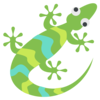
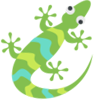
lizard tongue finished

Changed region(s): [[0.0, 0.0, 0.99, 0.99], [0.78, 0.54, 0.93, 0.84]]

diff --git a/src/main/java/com/zeroboy/glutlizard/Board.java b/src/main/java/com/zeroboy/glutlizard/Board.java
@@ -55,6 +55,10 @@ class BoardPanel extends JPanel implements KeyListener {
     private boolean leftKeyPressed = false;
     private boolean downKeyPressed = false;
     private boolean rightKeyPressed = false;
+    private boolean spaceKeyPressed = false;
+
+    private int tongueLength = 100;
+    private int tongueWidth = 8;
 
     public BoardPanel() {
         // Load the lizard and fly images from the assets
@@ -127,6 +131,44 @@ class BoardPanel extends JPanel implements KeyListener {
         for (Fly fly : flies) {
             fly.draw(g2d);
         }
+
+        // Draw the tongue if Space key is pressed
+        if (spaceKeyPressed) {
+            // Get the current angle of the lizard
+            double angle = 70 - lizard.getRotationAngle();
+
+            // Calculate the center point of the lizard image
+            int centerX = lizard.getX() + 100 / 2;
+            int centerY = lizard.getY() + 100 / 2;
+
+            // Calculate the offset from the center to the starting point of the tongue line
+            int offset = 70; // Distance from the center to the starting point
+
+            // Calculate the starting point of the tongue line
+            int startX = centerX + (int) (offset * Math.cos(angle));
+            int startY = centerY - (int) (offset * Math.sin(angle));
+
+            // Calculate the end point of the tongue line based on the desired angle
+            int endX = startX + (int) (tongueLength * Math.cos(angle));
+            int endY = startY - (int) (tongueLength * Math.sin(angle));
+
+            // #LIZARD TONGUE COLOR
+            // Define the gradient colors for the tongue
+            Color startColor = new Color(255, 150, 150); // Lighter color
+            Color endColor = new Color(255, 50, 50); // Darker color
+
+            // Create a gradient paint object using the start and end colors
+            Paint gradientPaint = new GradientPaint(startX, startY, startColor, endX, endY, endColor);
+
+            // Set the paint and stroke for the tongue line
+            g2d.setPaint(gradientPaint);
+            // Round edge for lizard tongue
+            g2d.setStroke(new BasicStroke(tongueWidth, BasicStroke.CAP_ROUND, BasicStroke.JOIN_ROUND));
+            // #END
+
+            // Draw the tongue line
+            g2d.drawLine(startX, startY, endX, endY);
+        }
     }
 
     @Override
@@ -146,16 +188,18 @@ class BoardPanel extends JPanel implements KeyListener {
         } else if (keyCode == KeyEvent.VK_DOWN) {
             downKeyPressed = true;
             lizard.moveDown();
+        } else if (keyCode == KeyEvent.VK_SPACE) {
+            spaceKeyPressed = true;
         }
 
         if (upKeyPressed && leftKeyPressed) {
             // Rotate the lizard counter-clockwise
             lizard.rotateCounterClockwise();
-        } else if (upKeyPressed && rightKeyPressed){
+        } else if (upKeyPressed && rightKeyPressed) {
             lizard.rotateClockwise();
-        }else if (downKeyPressed && leftKeyPressed){
+        } else if (downKeyPressed && leftKeyPressed) {
             lizard.rotateClockwise();
-        }else if (downKeyPressed && rightKeyPressed){
+        } else if (downKeyPressed && rightKeyPressed) {
             lizard.rotateCounterClockwise();
         }
         // Repaint the board to show the updated lizard position
@@ -176,6 +220,8 @@ class BoardPanel extends JPanel implements KeyListener {
             leftKeyPressed = false;
         } else if (keyCode == KeyEvent.VK_RIGHT) {
             rightKeyPressed = false;
+        } else if (keyCode == KeyEvent.VK_SPACE) {
+            spaceKeyPressed = false;
         }
     }
 

diff --git a/src/main/java/com/zeroboy/glutlizard/Lizard.java b/src/main/java/com/zeroboy/glutlizard/Lizard.java
@@ -10,11 +10,13 @@ import java.awt.Image;
 import java.awt.geom.AffineTransform;
 import java.awt.image.BufferedImage;
 import javax.swing.ImageIcon;
+
 /**
  *
  * @author zero
  */
 public class Lizard {
+
     private int x;
     private int y;
     private int CELL_SIZE = 10;
@@ -28,20 +30,23 @@ public class Lizard {
         this.rotationAngle = 0.0;
     }
 
-    public int getX(){
+    public int getX() {
         return x;
     }
-    public void setX(int x){
+
+    public void setX(int x) {
         this.x = x;
     }
-    public int getY(){
+
+    public int getY() {
         return y;
     }
-    public void setY(int y){
+
+    public void setY(int y) {
         this.y = y;
     }
-    
-        public void moveLeft() {
+
+    public void moveLeft() {
         x -= CELL_SIZE;
     }
 
@@ -56,20 +61,20 @@ public class Lizard {
     public void moveDown() {
         y += CELL_SIZE;
     }
-    
+
     public void setPosition(int x, int y) {
         this.x = x;
         this.y = y;
     }
-    
+
     public void rotateClockwise() {
         rotationAngle += Math.toRadians(20);
     }
 
-    public void rotateCounterClockwise(){
+    public void rotateCounterClockwise() {
         rotationAngle -= Math.toRadians(20);
     }
-    
+
     public void draw(Graphics2D g) {
         AffineTransform oldTransform = g.getTransform();
         AffineTransform newTransform = (AffineTransform) oldTransform.clone();
@@ -80,5 +85,17 @@ public class Lizard {
         g.drawImage(image, x, y, null);
 
         g.setTransform(oldTransform);
+    }
+
+    double getRotationAngle() {
+        return rotationAngle; // Generated from nbfs://nbhost/SystemFileSystem/Templates/Classes/Code/GeneratedMethodBody
+    }
+
+    double getTongueAngle() {
+        return rotationAngle + Math.toRadians(-45); // Generated from nbfs://nbhost/SystemFileSystem/Templates/Classes/Code/GeneratedMethodBody
+    }
+
+    Object getImage() {
+        return image; // Generated from nbfs://nbhost/SystemFileSystem/Templates/Classes/Code/GeneratedMethodBody
     }
 }
